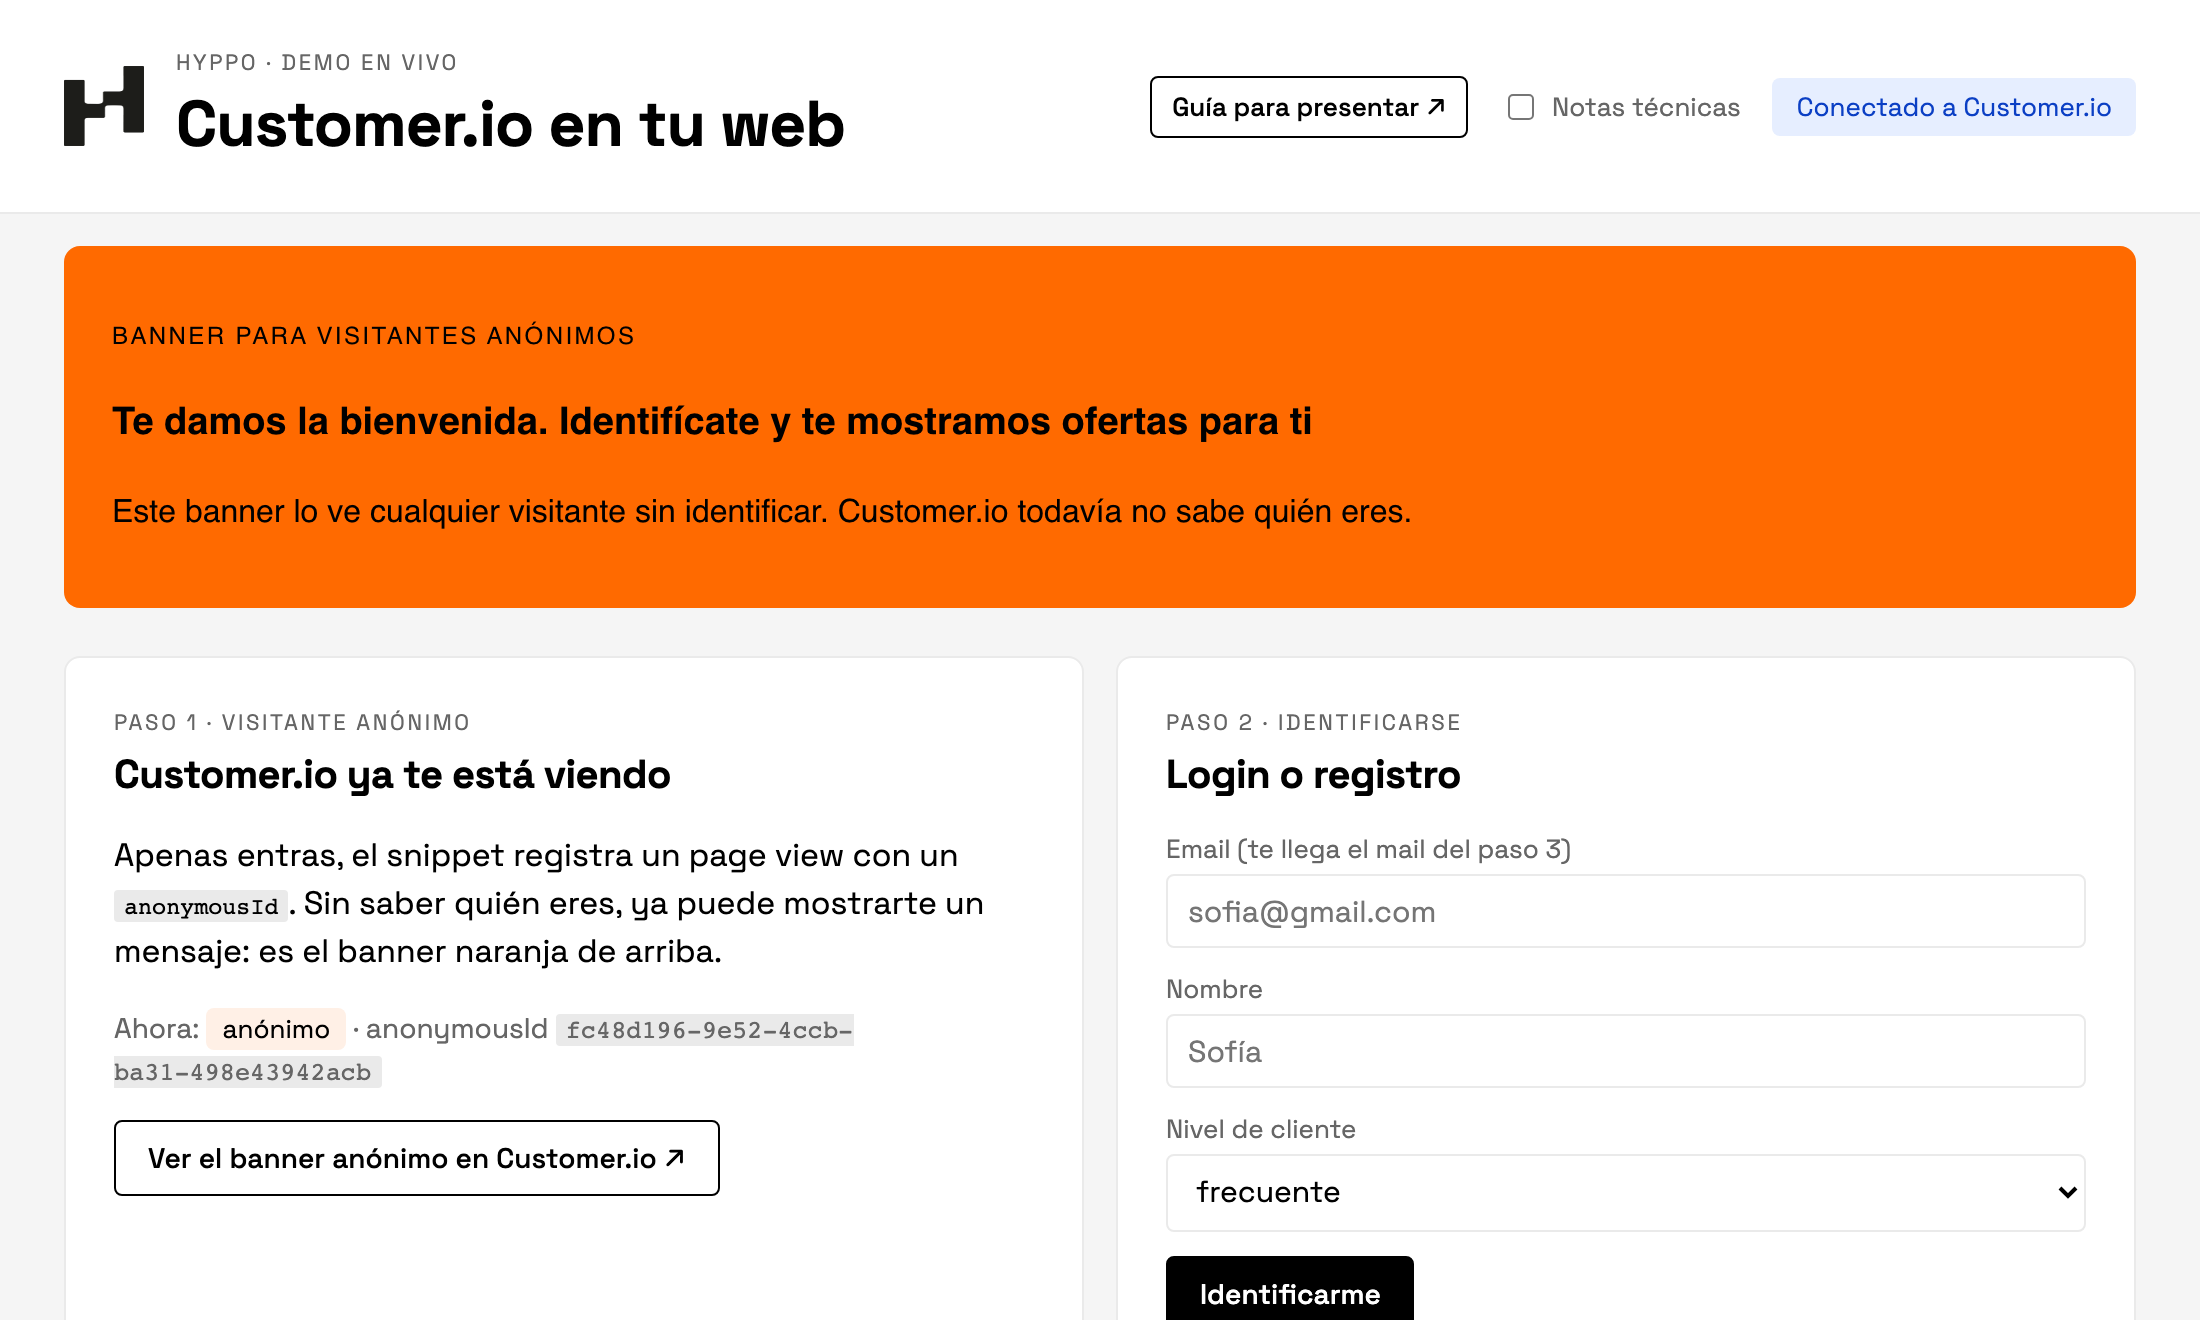
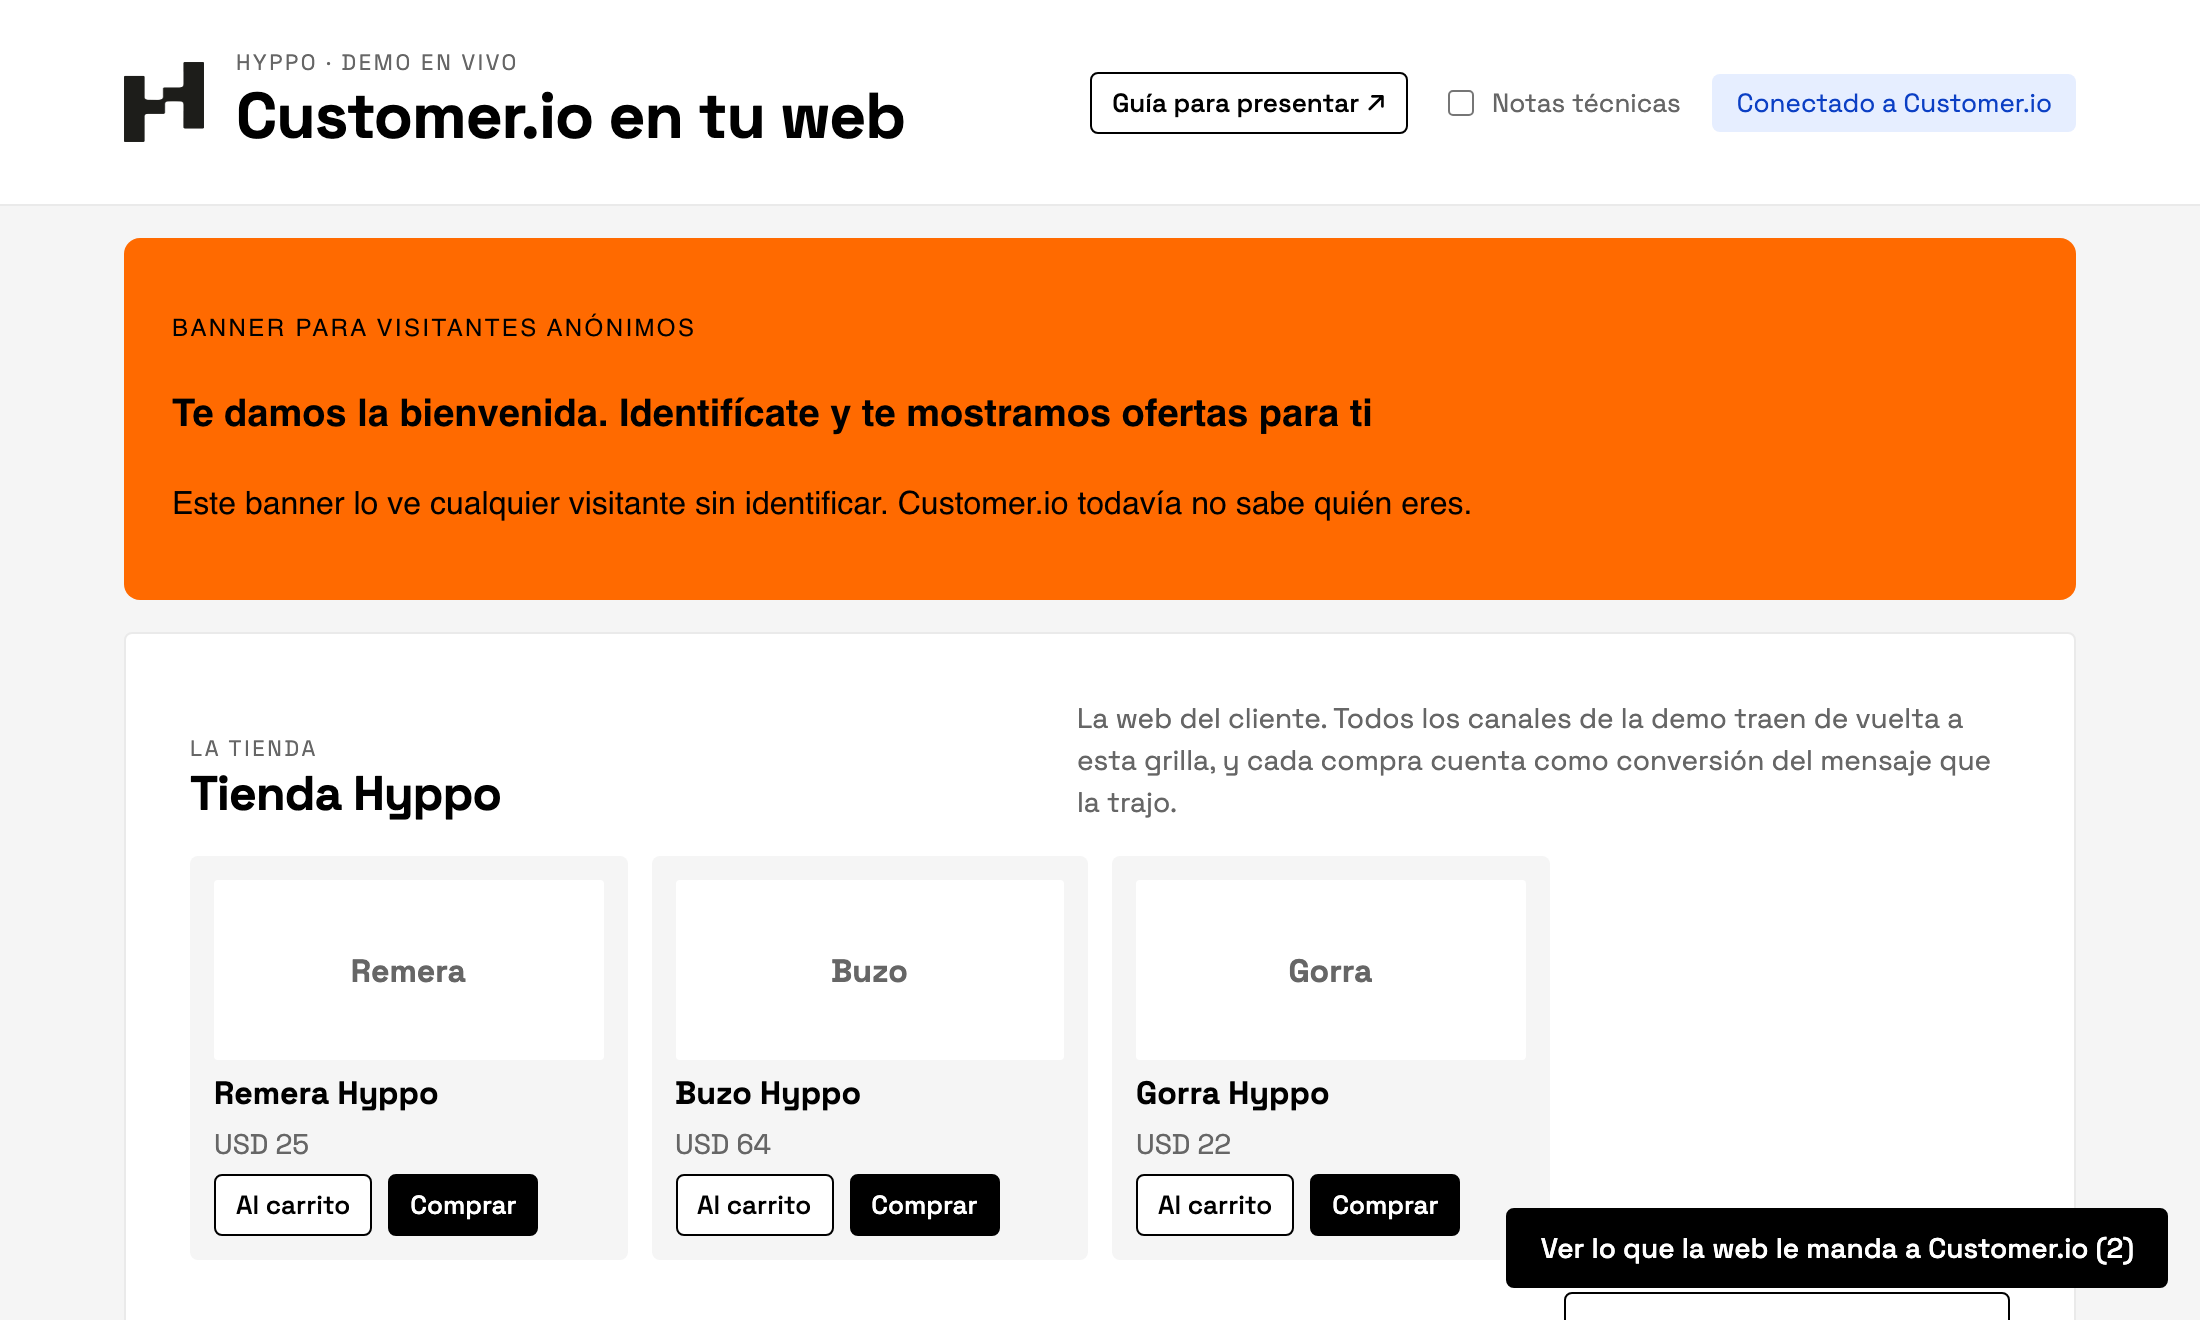
docs(guia): la tienda, capturas nuevas y textos alineados con la demo

diff --git a/guia.html b/guia.html
@@ -35,6 +35,19 @@
     </section>
 
     <section class="card">
+      <p class="caps">Antes del paso 1 · La tienda</p>
+      <h2>"Esta es tu web; ahora mirá lo que hace Customer.io con ella"</h2>
+      <dl>
+        <dt>Qué decir</dt>
+        <dd>Arriba de los pasos está la tienda: remera, buzo y gorra. Todos los canales de la demo (el in-app, el email, el WhatsApp) traen a la persona de vuelta acá, y cada compra cuenta como conversión del mensaje que la trajo.</dd>
+        <dt>Carrito abandonado</dt>
+        <dd>Ya identificado (paso 2), tocá "Al carrito" en el buzo y seguí con la demo: al minuto llega el email "Buzo Hyppo sigue en tu carrito". Para mostrar la salida, agregá la remera y comprala antes de que pase el minuto: en la automation se ve que la persona salió por conversión y el email no salió. La frase: "se frena solo si compra".</dd>
+        <dt>Qué mostrar en Customer.io</dt>
+        <dd>"Ver el carrito abandonado ↗": la espera de 1 minuto, el email y la salida por compra.</dd>
+      </dl>
+    </section>
+
+    <section class="card">
       <p class="caps">Paso 1 · Visitante anónimo</p>
       <h2>"Customer.io te reconoce antes de saber quién sos"</h2>
       <figure><img src="assets/guia/1-anonimo.png" alt="Banner naranja para visitantes anónimos arriba de la demo"></figure>
@@ -42,7 +55,7 @@
         <dt>Qué decir</dt>
         <dd>Apenas alguien entra a la web, Customer.io le asigna un ID anónimo y ya puede mostrarle mensajes. Este banner lo ve cualquier visitante, sin login.</dd>
         <dt>Qué hacer</dt>
-        <dd>Señalá el banner naranja. Para mostrar lo técnico, abrí el panel con el botón de abajo a la derecha: el page view ya salió. Arranca minimizado y se cierra con el "—".</dd>
+        <dd>Señalá el banner naranja. Para mostrar lo técnico, abrí el panel con el botón de abajo a la derecha: el page view ya salió. Arranca minimizado y se cierra con el "—". Con el panel minimizado, cada evento aparece unos segundos como aviso a la derecha, y cada botón muestra si se envió.</dd>
         <dt>Qué mostrar en Customer.io</dt>
         <dd>"Ver el banner anónimo ↗": el broadcast, sus vistas y su conversión (que el visitante se identifique).</dd>
       </dl>
@@ -64,7 +77,9 @@
 
     <section class="card">
       <p class="caps">Paso 3 · In-app</p>
-      <h2>"Apenas sabe quién eres, te ofrece lo tuyo"</h2>
+      <h2>"Apenas sabe quién es, le ofrece lo suyo"</h2>
+      <figure><img src="assets/guia/3-inapp.png" alt="Modal in-app con la promoción para cliente frecuente: 20% en el buzo con el código VUELVE20"></figure>
+      <figure><img src="assets/guia/3-landing.png" alt="La tienda al volver desde el modal, con el buzo destacado y el precio con el cupón aplicado"></figure>
       <dl>
         <dt>Qué decir</dt>
         <dd>El mismo registro que cambió el banner dispara un mensaje dentro de la web con una promoción para su nivel: a los nuevos, 15% en la remera; a los frecuentes, 20% en el buzo y envío gratis. Es un solo mensaje que se arma con los datos del cliente, sin tocar código, y la compra que trae cuenta como conversión.</dd>
@@ -84,10 +99,9 @@
         <dt>Qué decir</dt>
         <dd>Una acción en la web dispara un email, y Customer.io elige qué mandar según el nivel de cliente: a los nuevos les ofrece la remera; a los frecuentes, el buzo. Encima, el email del buzo está en un test A/B de asunto: la mitad recibe uno y la mitad otro, y Customer.io dice cuál vende más. El link vuelve a la web reconociendo a la persona, aunque abra el mail en otro dispositivo.</dd>
         <dt>Qué hacer</dt>
-        <dd>"Envíame el email", abrí el mail (llega en uno o dos minutos), tocá el botón y comprá el producto destacado. Para mostrar las dos ramas, identificate primero como frecuente y después, con otro email, como nuevo.</dd>
-        <dd><strong>Carrito abandonado:</strong> tocá "Al carrito" en el buzo y seguí con el paso 5; al minuto llega el email "Buzo Hyppo sigue en tu carrito". Para mostrar la salida, agregá la remera y comprala antes de que pase el minuto: en la automation se ve que la persona salió por conversión y el email no salió. La frase: "se frena solo si compra".</dd>
+        <dd>"Envíame el email", abrí el mail (llega en uno o dos minutos) y tocá el botón: la web vuelve con el producto destacado en la tienda. Compralo. Para mostrar las dos ramas, identificate primero como frecuente y después, con otro email, como nuevo.</dd>
         <dt>Qué mostrar en Customer.io</dt>
-        <dd>"Ver la automation ↗": la rama por nivel, el test y las conversiones de cada email. "Ver el test A/B ↗": los dos asuntos, cuánta gente recibió cada uno y las compras de cada lado. "Ver el carrito abandonado ↗": la espera de 1 minuto, el email y la salida por compra.</dd>
+        <dd>"Ver la automation ↗": la rama por nivel, el test y las conversiones de cada email. "Ver el test A/B ↗": los dos asuntos, cuánta gente recibió cada uno y las compras de cada lado.</dd>
       </dl>
     </section>
 

diff --git a/index.html b/index.html
@@ -130,7 +130,7 @@
         <ul>
           <li>Lo dispara el mismo evento del banner, <code>demo_identificado</code>, que lleva <code>first_name</code> y <code>nivel</code>. Un solo mensaje decide la promoción con Liquid (<code>{% if event.nivel == "frecuente" %}</code>).</li>
           <li>La automation espera 20 segundos antes de mostrarlo, para que no lo corte la recarga de la página.</li>
-          <li>El botón vuelve a esta página con <code>?uid=…&amp;producto=…&amp;utm_source=inapp</code>; la compra cuenta como conversión (<code>Order Completed</code> en 1 día).</li>
+          <li>El botón vuelve a esta página con <code>?uid=…&amp;producto=…&amp;cupon=…&amp;utm_source=inapp</code>: el producto destacado muestra el precio con el cupón, y la compra lleva <code>coupon</code> y <code>discount</code> y cuenta como conversión (<code>Order Completed</code> en 1 día).</li>
           <li>El plugin consulta despacio (cerca de una vez por minuto) hasta el primer mensaje; después pasa a tiempo real. Para la reunión conviene haberse identificado una vez antes.</li>
         </ul>
       </details>
@@ -140,7 +140,7 @@
       <div class="step-body">
         <p class="caps"><span class="num">4</span>Email → web → conversión</p>
         <h2>Un email distinto según el nivel</h2>
-        <p>Pide el email: te llega al correo del paso 2. La automation elige el contenido según tu nivel de cliente: a quien es nuevo le ofrece la remera; a quien es frecuente, el buzo, con dos asuntos distintos en un test A/B. El botón del correo vuelve a esta página ya identificado y con el producto destacado. Si lo compras, cuenta como conversión.</p>
+        <p>Pide el email: te llega al correo del paso 2. La automation elige el contenido según tu nivel de cliente: a quien es nuevo le ofrece la remera; a quien es frecuente, el buzo, con dos asuntos distintos en un test A/B. El botón del correo vuelve a esta página ya identificado y con el producto destacado en la tienda. Si lo compras, cuenta como conversión.</p>
       </div>
       <div class="step-action">
         <div><button id="btn-email">Envíame el email</button></div>
@@ -191,7 +191,7 @@
       <div class="step-body">
         <p class="caps"><span class="num">6</span>Web push</p>
         <h2>Una notificación en el navegador</h2>
-        <p>Activas las notificaciones, pides un push y, al tocarlo, te lleva a sus métricas en Customer.io.</p>
+        <p>Activas las notificaciones, pides un push y, al tocarlo, te lleva a su automation en Customer.io.</p>
       </div>
       <div class="step-action">
         <div class="row">
@@ -208,7 +208,7 @@
         <ul>
           <li>Web push usa el plugin <code>webPushPlugin.js</code> con la public key (VAPID) del workspace y un service worker servido desde este dominio (<code>cio-webpush-sw.js</code>).</li>
           <li>Solo se puede pedir permiso a personas identificadas, y siempre desde un clic.</li>
-          <li>El botón manda el evento <code>demo_push</code>; una automation responde con el push, cuyo link abre sus métricas en Customer.io.</li>
+          <li>El botón manda el evento <code>demo_push</code>; una automation responde con el push, cuyo link abre su flujo en Customer.io.</li>
         </ul>
       </details>
     </section>
